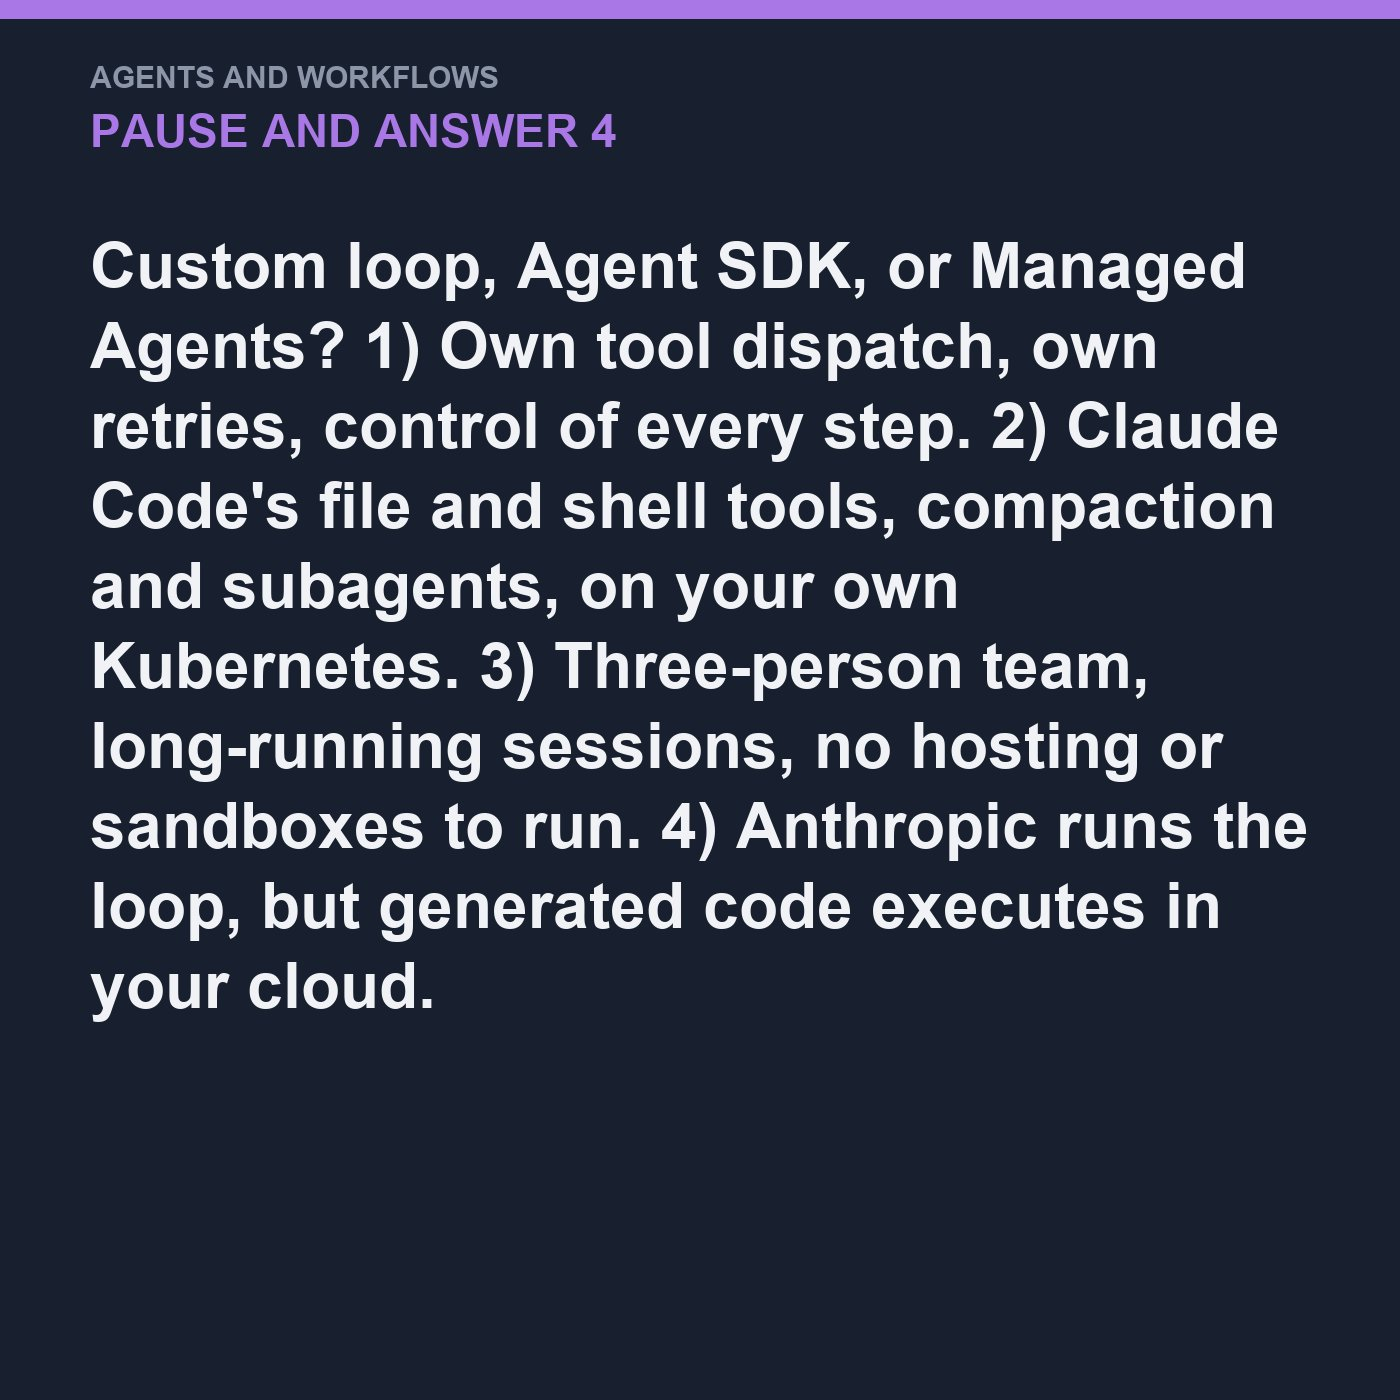
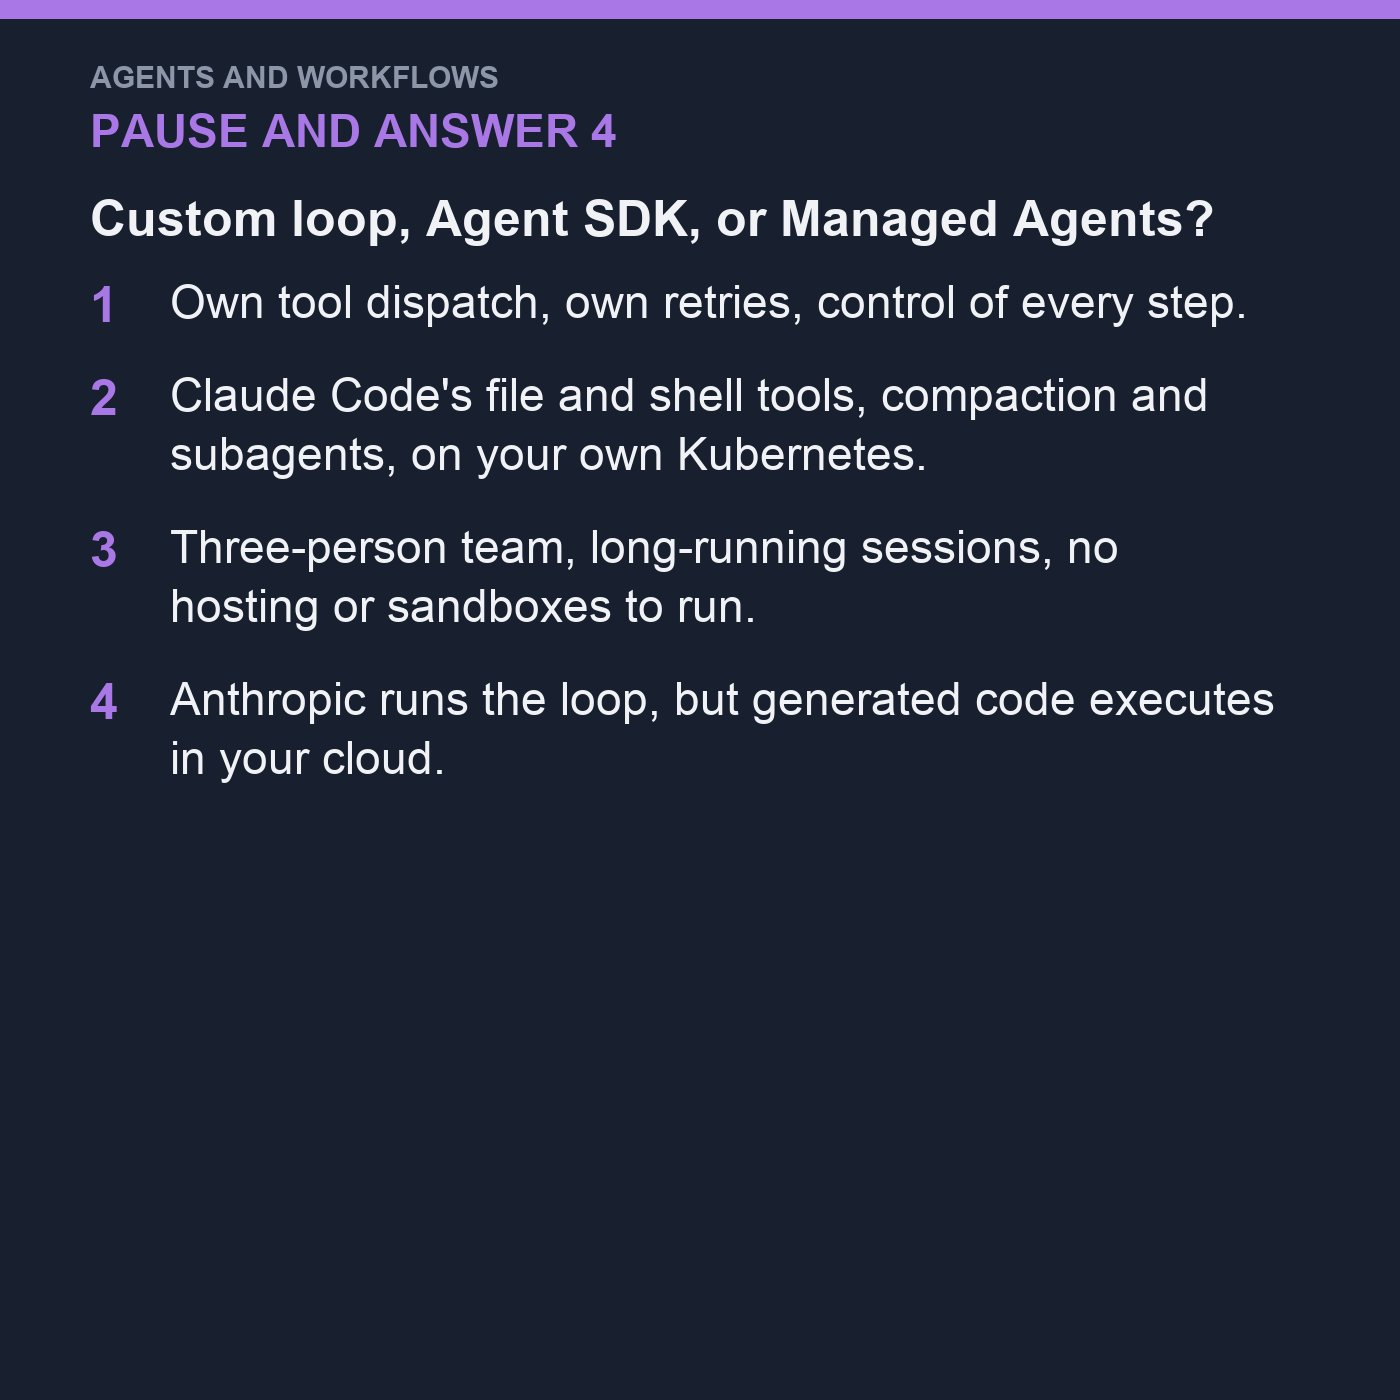
feat: Itemise CCDV-F recall cards and give the D00 dropdown drill a numbered answer (#15)
The D00 dropdown drill opened a bulleted chapter, so its answer chapter showed the chapter
bullets instead of the verdicts. A recall drill with a numbered answer for each numbered item
now gets the itemised answer card. Items written as one running sentence are capitalised and
end with a full stop.

Changed region(s): [[0.0614, 0.1229, 0.9521, 0.7371]]

diff --git a/production/tools/render.py b/production/tools/render.py
@@ -185,8 +185,11 @@ def chapter_marks(path, meta, turns):
             title = f"Pause and answer {n}"
             marks[q] = (f"{seg} - {title}" if seg else title, cards.recall(d, episode, n, reveal=False))
             if d.get("answer_line"):
-                # A recall prompt that opens a bulleted chapter (the recap) is answered by those bullets.
-                card = (cards.segment(seg, episode, bullets[seg]) if seg in bullets
+                # A recall prompt that opens a bulleted chapter (the recap) is answered by those bullets,
+                # unless it carries a numbered answer for each numbered item.
+                itemised = cards.numbered(d["prompt"])[1] and \
+                    len(cards.numbered(d.get("answer", ""))[1]) == len(cards.numbered(d["prompt"])[1])
+                card = (cards.segment(seg, episode, bullets[seg]) if seg in bullets and not itemised
                         else cards.recall(d, episode, n, reveal=True))
                 marks[find(d["answer_line"])] = (f"Answer {n}", card)
             elif seg in bullets:

diff --git a/production/tools/cards.py b/production/tools/cards.py
@@ -142,7 +142,9 @@ def numbered(text):
     parts = re.split(r"(?:^|\s)(\d+)\)\s+", text)
     if len(parts) < 5 or [int(n) for n in parts[1::2]] != list(range(1, len(parts) // 2 + 1)):
         return text, []
-    return parts[0].strip(), [p.strip() for p in parts[2::2]]
+    # Items written as one running sentence ("1) pasting ...; 2) a tool ...") read better as their own lines.
+    items = [re.sub(r"[;,]$", ".", p.strip()) for p in parts[2::2]]
+    return parts[0].strip(), [i[:1].upper() + i[1:] for i in items]
 
 
 def recall(drill, episode, number, reveal):
